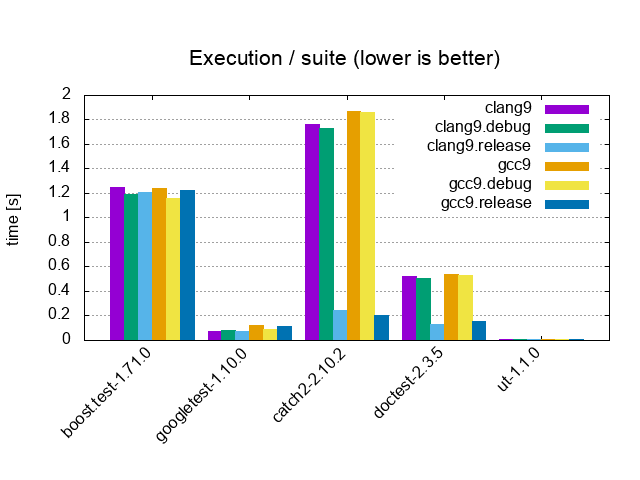
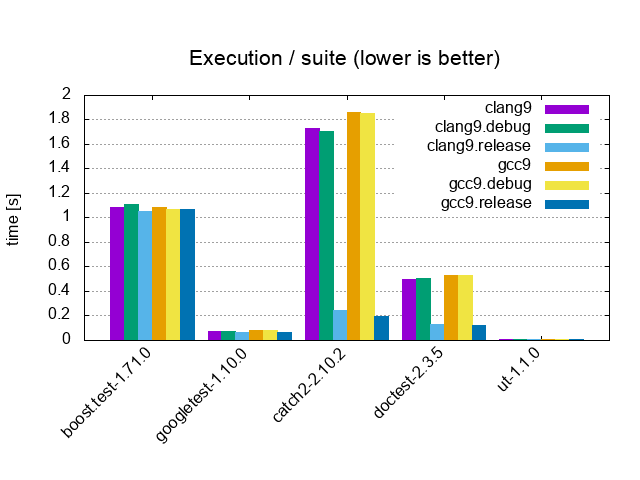
incremental build results

diff --git a/README.md b/README.md
@@ -76,6 +76,17 @@
 
   <tr>
     <td colspan="3" align="center">
+    <a href="https://github.com/cpp-testing/ut-benchmark/tree/master/benchmarks"><b>Incremental Build / Suite+Assert+STL</b></a> / <i>1 cpp file change / 1'000 tests, 20'000 asserts, 100 cpp files</i>
+    </td>
+  </tr>
+  <tr>
+    <td><a href="https://raw.githubusercontent.com/cpp-testing/ut-benchmark/master/results/Compilation_incremental.suite+assert+stl.png"><img src="https://raw.githubusercontent.com/cpp-testing/ut-benchmark/master/results/Compilation_suite+assert+stl.png"></a></td>
+    <td><a href="https://raw.githubusercontent.com/cpp-testing/ut-benchmark/master/results/Execution_incremental.suite+assert+stl.png"><img src="https://raw.githubusercontent.com/cpp-testing/ut-benchmark/master/results/Execution_suite+assert+stl.png"></a></td>
+    <td><a href="https://raw.githubusercontent.com/cpp-testing/ut-benchmark/master/results/BinarySize_incremental.suite+assert+stl.png"><img src="https://raw.githubusercontent.com/cpp-testing/ut-benchmark/master/results/BinarySize_suite+assert+stl.png"></a></td>
+  </tr>
+
+  <tr>
+    <td colspan="3" align="center">
     <a href="https://github.com/cpp-testing/ut-benchmark/tree/master/benchmarks"><b>Suite+Assert+STL</b></a> / <i>10'000 tests, 20'000 asserts, 100 cpp files<br/>(Headers vs Precompiled headers vs C++20 Modules)</i>
     </td>
   </tr>
